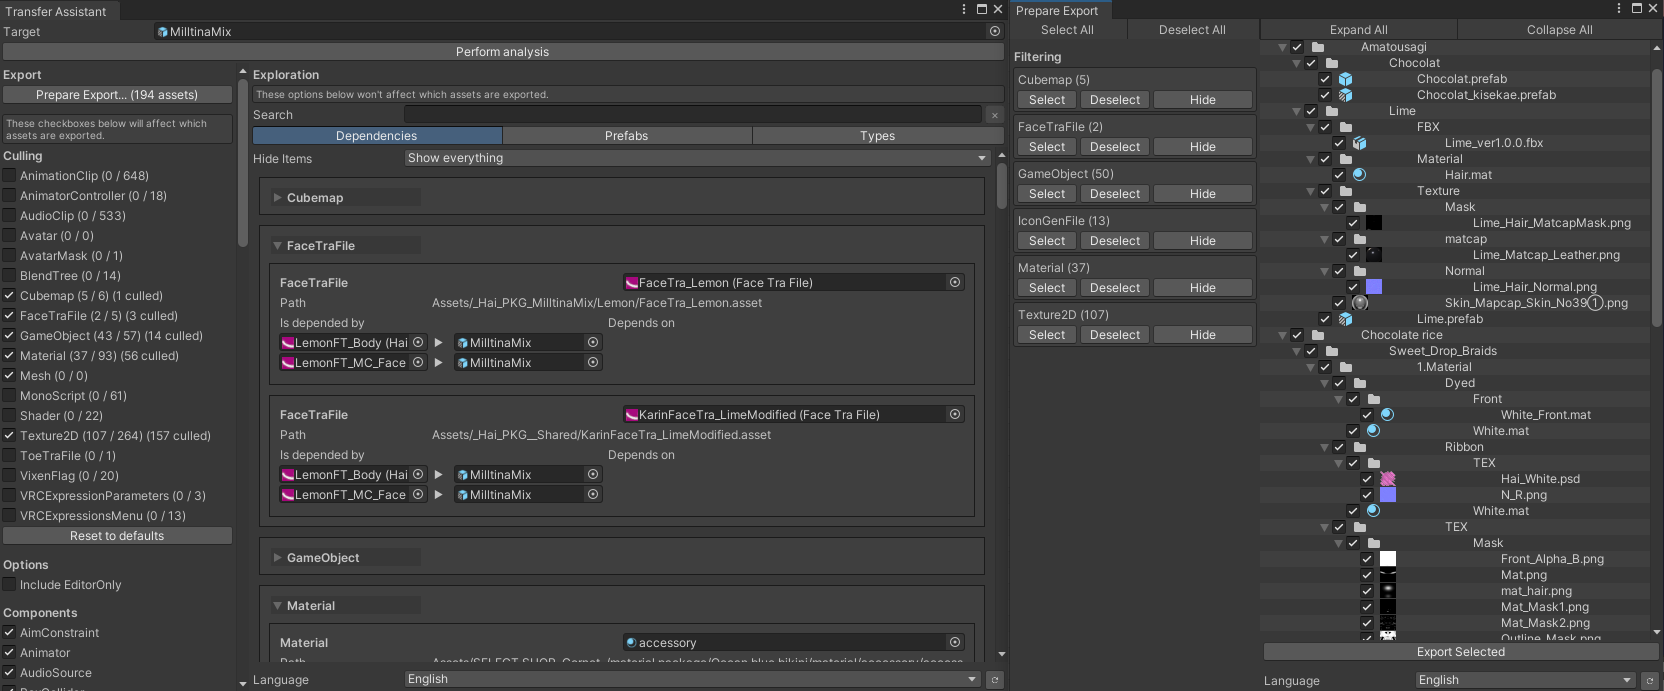
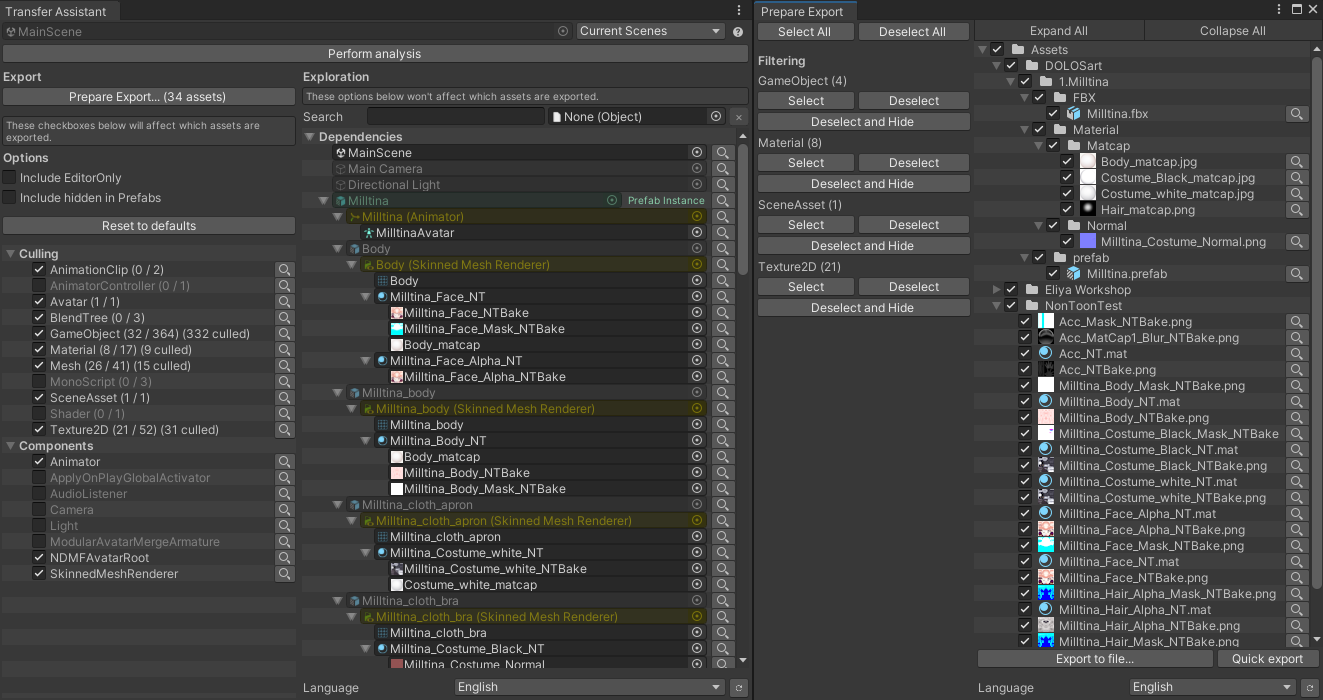
Update README.md to match the documentation.

diff --git a/README.md b/README.md
@@ -10,7 +10,7 @@ This tool will **deliberately ignore some asset references**, keeping only asset
 
 - Instead of exporting every asset referenced by prefabs, it only exports assets that exist on the main avatar.
   If a prefab uses an asset that the main avatar does not, it is not included. This is the default behavior, but it can be changed.
-- You may choose to ignore assets by type or by component, along with any asset referenced by them.
+- You may choose to ignore assets by type or by component, along with any asset referenced by them. Examples:
   - When you ignore materials, it will also ignore textures used by those materials.
   - When you ignore components such as *Modular Avatar Menu Item*, it will also ignore the icon textures referenced by those components.
 - You may choose to ignore assets referenced by objects marked as EditorOnly.
@@ -32,45 +32,13 @@ That said, this tool may still be used to transfer avatars or other asset types 
 If you are a product creator, this tool is **not** designed for exporting *.unitypackage* files meant to be published and distributed as part of a release, as such assets typically need more rigorous discipline in the folder structure.
 Some functionality of this tool may be used for introspection purposes, but it is **not recommended** to use this tool for the management of product releases.
 
-## User manual
+# User manual
 
-The documentation for this tool is being written, and it will be available [here in English](https://docs.hai-vr.dev/docs/products/transfer-assistant),
-and [here in Japanese](https://docs.hai-vr.dev/ja/docs/products/transfer-assistant).
+The documentation for this tool is available in the following languages:
 
------
-
------
-
-## The problem this tries to solve
-
-When exporting a custom avatar using Unity's default *Export .unitypackage* function to transfer assets between projects, assets are often scattered across multiple folders as expected
-from a custom avatar. However, the contents of the export often end up with extra assets that aren't particularly needed by the custom avatar because:
-- You do not want accidental references left over unintentionally inside the active hierarchy:
-  - Prefab instances may contain ghost references to assets that aren't being used.
-  - Components may contain stray references to sub-assets of a model or a transform within a prefab, which would in turn pull all the assets of the source prefab.
-- You do not want assets referenced by incompatible components:
-  - Some components may be irrelevant in another project (e.g. *Modular Avatar Menu Item*) and contain references to assets such as icon Textures.
-  - Some proprietary assets may be incompatible in another project (e.g. *Expression Menu*), and those assets may themselves contain references to other assets.
-  - Some Unity assets may be irrelevant in another project (e.g. *Animator Controller*, *Animation Clip*).
-- You have installed some common assets separately:
-  - Shaders, scripts, and DLLs are often undesirable as they are usually installed separately by the user.
-- You have replaced assets or removed objects from the active hierarchy:
-  - The original version of a prefab may contain undesirable references to assets (such as Materials) that your prefab instance is not using.
-    - For example, an undesirable Material may be shipped with the original prefab of a purchased avatar, but you have already replaced it with your own.
-    - Or, you have removed a Component or a GameObject from a prefab which contained references to other assets.
-  - In some cases, you may have deliberately used the *EditorOnly* tag to signify that you aren't interested in some objects, so Materials and Textures referenced by those *EditorOnly* objects might not be required.
-    While we will still export assets from objects marked as *EditorOnly* by default, you have the choice to perform more aggressive culling by excluding assets referenced by such objects as well.
-    - The GameObjects and Components will continue to exist in the hierarchy as this tool does not modify scenes or prefabs; only the assets will be excluded.
-    - If a prefab instance is marked as EditorOnly, we will still export the corresponding prefab source to prevent errors during import.
-
-This tool attempts to facilitate the transfer of an avatar between incompatible game projects by offering opportunities to cull superfluous assets while keeping the avatar in an editable state in the destination project.
-
-*Transfer Assistant* will never modify the contents of Scenes or Prefabs.
-
-### Before
-
-![before.png](Documentation/before.png)
-
-### After
-
-![after.png](Documentation/after.png)
+- [English](https://docs.hai-vr.dev/docs/products/transfer-assistant)
+- [Français](https://docs.hai-vr.dev/fr/docs/products/transfer-assistant)
+- [日本語](https://docs.hai-vr.dev/ja/docs/products/transfer-assistant)
+- [한국어](https://docs.hai-vr.dev/ko/docs/products/transfer-assistant)
+- [简体中文](https://docs.hai-vr.dev/zh-Hans/docs/products/transfer-assistant)
+- [繁體中文](https://docs.hai-vr.dev/zh-Hant/docs/products/transfer-assistant)